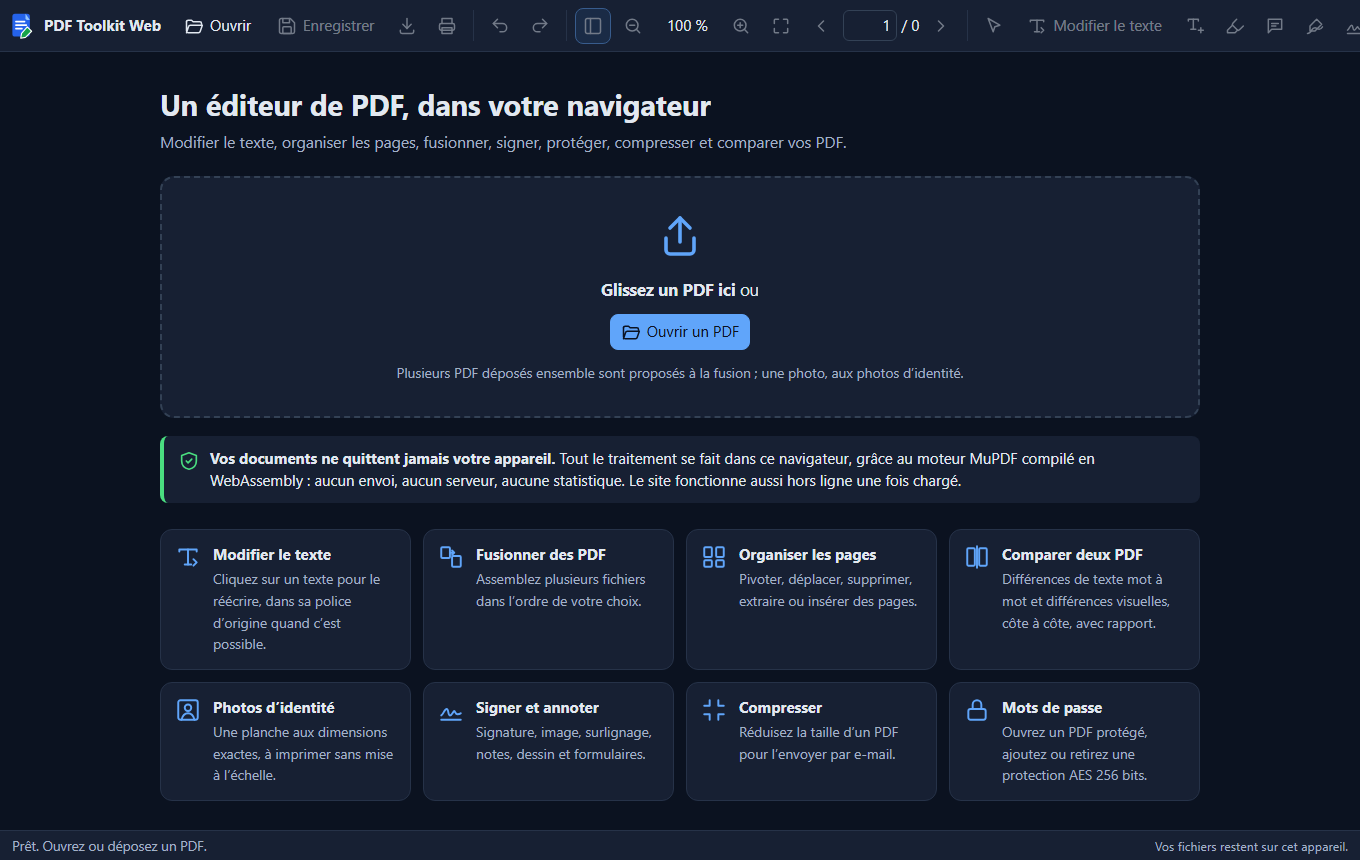
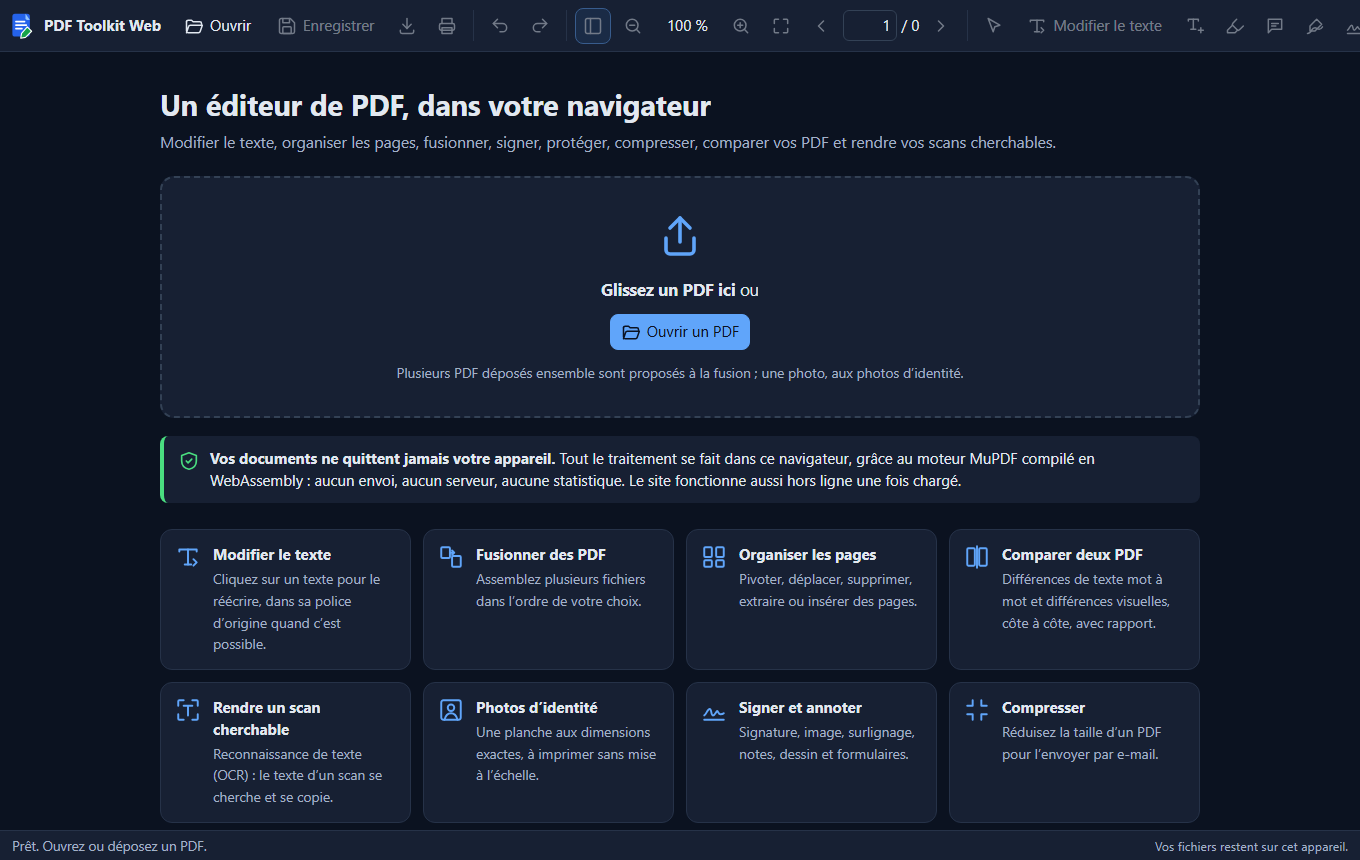
OCR : documentation, licences et captures
README : section « Rendre un scan cherchable (OCR) » (fonctionnement,
options, première utilisation, limites mesurées), raccourci Ctrl+Maj+O,
différences avec la version Windows (calque compatible dans les deux
sens, vérifié avec le code de PDF Toolkit 2), tailles téléchargées,
essais (tests/ocr.test.ts, scripts/essai-ocr.mjs), construction des
fichiers de l'OCR et organisation du code.

LICENCES-TIERCES : Tesseract.js, tesseract.js-core, Tesseract,
Leptonica, données de langue (Apache 2.0) et modules du worker.

Accueil : « Rendre un scan cherchable », sous-titre complété.
Captures de l'OCR sur ordinateur et sur téléphone.

diff --git a/src/ui/outils.ts b/src/ui/outils.ts
@@ -42,7 +42,7 @@ export function accueil(app: Application): HTMLElement {
     fonction("fusion", "Fusionner des PDF", "Assemblez plusieurs fichiers dans l’ordre de votre choix.", () => fusion(app)),
     fonction("pages", "Organiser les pages", "Pivoter, déplacer, supprimer, extraire ou insérer des pages.", () => app.ouvrirDialogue()),
     fonction("comparer", "Comparer deux PDF", "Différences de texte mot à mot et différences visuelles, côte à côte, avec rapport.", () => comparer(app)),
-    fonction("ocr", "Rendre un scan cherchable", "Reconnaissance de texte (OCR) : le texte d’un PDF scanné se cherche, se sélectionne et se copie.", () => app.ouvrirDialogue()),
+    fonction("ocr", "Rendre un scan cherchable", "Reconnaissance de texte (OCR) : le texte d’un scan se cherche et se copie.", () => app.ouvrirDialogue()),
     fonction("photo", "Photos d’identité", "Une planche aux dimensions exactes, à imprimer sans mise à l’échelle.", () => photoIdentite(app)),
     fonction("signature", "Signer et annoter", "Signature, image, surlignage, notes, dessin et formulaires.", () => app.ouvrirDialogue()),
     fonction("compresser", "Compresser", "Réduisez la taille d’un PDF pour l’envoyer par e-mail.", () => app.ouvrirDialogue()),
@@ -51,7 +51,7 @@ export function accueil(app: Application): HTMLElement {
   return el("div", { class: "accueil" },
     el("div", { class: "contenu" },
       el("h1", { text: "Un éditeur de PDF, dans votre navigateur" }),
-      el("p", { class: "sous-titre", text: "Modifier le texte, organiser les pages, fusionner, signer, protéger, compresser et comparer vos PDF." }),
+      el("p", { class: "sous-titre", text: "Modifier le texte, organiser les pages, fusionner, signer, protéger, compresser, comparer vos PDF et rendre vos scans cherchables." }),
       depot,
       el("div", { class: "confidentialite" }, el("span", { html: icone("bouclier") }),
         el("div", {}, el("strong", { text: "Vos documents ne quittent jamais votre appareil. " }),

diff --git a/README.md b/README.md
@@ -2,7 +2,8 @@
 
 Un éditeur de PDF simple et en français qui fonctionne **entièrement dans votre navigateur** : modifier le texte,
 organiser et assembler les pages, remplir les formulaires, signer, protéger par mot de passe, compresser, créer des
-photos d'identité et comparer deux versions d'un document.
+photos d'identité, comparer deux versions d'un document et rendre un document scanné cherchable (reconnaissance de
+texte).
 
 **Ouvrir le site : <https://yannickbuchet-ctrl.github.io/pdf-toolkit-web/>**
 
@@ -18,8 +19,9 @@ Windows, avec le même moteur : MuPDF.
 - **Aucune statistique, aucun traceur, aucune publicité.** Le site ne charge rien depuis un autre site (pas même une
   police de caractères), et sa politique de sécurité interdit d'envoyer des données ailleurs.
 - **Hors ligne** : une fois le site ouvert une première fois, il continue de fonctionner sans connexion. Seuls les
-  fichiers du site lui-même sont gardés par le navigateur, jamais vos documents. Le lecteur des photos HEIC fait
-  exception : il n'est téléchargé (2 Mo) qu'à la première photo HEIC, puis gardé à son tour.
+  fichiers du site lui-même sont gardés par le navigateur, jamais vos documents. Deux exceptions : le lecteur des
+  photos HEIC n'est téléchargé (2 Mo) qu'à la première photo HEIC, et la reconnaissance de texte (environ 2 Mo, puis
+  3 Mo de plus pour l'anglais, gardés d'office) qu'à sa première utilisation ; ils sont ensuite gardés à leur tour.
 - Fermer l'onglet efface tout : enregistrez votre document avant.
 
 ## Fonctions
@@ -60,6 +62,47 @@ Windows, avec le même moteur : MuPDF.
   respectée. Une photo est mise dans le PDF en JPEG, une image transparente en PNG, et un JPEG droit tel quel. Une
   photo de plus de 16 millions de pixels est réduite à cette taille, qui suffit pour imprimer une page A4 entière en
   haute qualité, et évite de saturer la mémoire d'un téléphone.
+
+### Rendre un scan cherchable (OCR)
+
+Outils → **Reconnaissance de texte (OCR)** (Ctrl+Maj+O). Le texte des pages scannées est lu sur l'image, puis posé
+dessus en **calque invisible**, mot par mot, à la place de chaque mot : la page garde son aspect, mais son texte se
+**cherche** (Ctrl+F, accents compris), se **sélectionne** et se **copie** dans n'importe quel lecteur de PDF, et le
+calque est gardé à l'enregistrement. Rien n'est envoyé : la lecture se fait dans le navigateur, avec le moteur
+[Tesseract](https://github.com/tesseract-ocr/tesseract) compilé en WebAssembly
+([Tesseract.js](https://github.com/naptha/tesseract.js)).
+
+![Recherche dans le texte reconnu d'une page scannée à l'envers, puis redressée](captures/ocr-recherche.png)
+
+- **Pages** : toutes, ou une liste (« 1-3, 7 ») ; **langue** : français (par défaut), anglais, ou les deux.
+- **Ignorer les pages qui contiennent déjà du texte** (coché) : les pages déjà lisibles, ou déjà passées à l'OCR,
+  sont laissées telles quelles. Décochée, une page déjà passée à l'OCR est relue : son ancien texte reconnu est
+  remplacé, jamais ajouté en double.
+- **Redresser les pages scannées à l'envers ou d'un quart de tour** (coché) : une page qui se lit mal est essayée
+  dans les quatre sens, puis pivotée pour s'afficher à l'endroit.
+- La progression s'affiche page par page. **Annuler** arrête la lecture aussitôt : la page en cours n'est pas
+  modifiée, les pages déjà lues gardent leur texte, et relancer l'OCR reprend où elle s'était arrêtée. **Ctrl+Z**
+  annule toute l'opération d'un coup.
+- À la fin, **Copier le texte** ou **Enregistrer en .txt** le texte reconnu, page par page.
+- En mode « Modifier le texte », le texte reconnu, encadré en pointillés gris, **ne se modifie pas** : il est
+  invisible, et un texte réécrit s'afficherait par-dessus l'image. « Remplacer » le laisse aussi tel quel. Pour le
+  corriger, refaites l'OCR de la page.
+- **Première utilisation** : le lecteur (1,5 Mo compressé) et les données du français (0,7 Mo) sont téléchargés depuis
+  ce site, puis gardés avec les données de l'anglais (3 Mo) : l'OCR marche ensuite hors connexion, dans les deux
+  langues.
+
+Limites :
+
+- texte imprimé seulement, en français ou en anglais : l'écriture manuscrite n'est pas lue, et un scan flou, très
+  incliné ou de basse résolution (moins de 200 ppp) donne plus d'erreurs. Sur des scans de synthèse à 300 ppp (Times
+  de 9 à 16 points, bruités, inclinés jusqu'à 1°), moins de 0,5 % des caractères sont faux, accents compris ; un vrai
+  scan en donne davantage ;
+- une page A4 se lit en une à deux secondes sur un ordinateur récent ; la lecture n'a pas été mesurée sur un vrai
+  téléphone, où elle est plus lente ;
+- le texte vertical (sur une page tournée qu'on choisit de ne pas redresser) n'est pas reconnu ;
+- le calque d'OCR posé par un autre logiciel est gardé : relire une telle page, case « Ignorer… » décochée, ajoute le
+  texte de PDF Toolkit à côté du sien ;
+- les pages très grandes (affiches, plans) sont lues à une résolution réduite, pour ménager la mémoire.
 
 ### Organiser et assembler
 
@@ -131,6 +174,9 @@ rétablir, Outils) et une barre en bas de l'écran, sous le pouce, regroupe le r
 | Chercher | rechercher et remplacer |
 | Plus | zoom, ajuster à la largeur, enregistrer sous, imprimer |
 
+La reconnaissance de texte, la fusion, la comparaison et les autres outils sont dans le menu Outils (☰), en haut à
+droite. La fenêtre de l'OCR tient dans l'écran, et sa progression et son bilan restent visibles sous les options.
+
 La page est ajustée à la largeur de l'écran dès l'ouverture ; zoomez à deux doigts. Dans la comparaison, l'affichage
 « Superposées » est choisi d'office et les options se replient après le calcul (bouton « Options et fichiers » pour
 les rouvrir). L'interface suit le mode clair ou sombre de l'appareil.
@@ -144,6 +190,7 @@ les rouvrir). L'interface suit le mode clair ou sombre de l'appareil.
 | Ctrl+F, Ctrl+H | rechercher, rechercher et remplacer |
 | F3, Maj+F3 | occurrence ou différence suivante, précédente |
 | Ctrl+G | aller à une page |
+| Ctrl+Maj+O | reconnaissance de texte (OCR) |
 | Ctrl+plus, Ctrl+moins, Ctrl+0 | zoom avant, arrière, 100 % |
 | T | mode « Modifier le texte » |
 | Échap | revenir à la lecture, annuler une saisie |
@@ -177,6 +224,13 @@ Un navigateur protège votre ordinateur : un site ne peut pas tout faire. Voici 
   d'un très grand bloc n'est pas comparé mot à mot (cela prendrait des minutes) : il est signalé comme supprimé et
   ajouté, page par page. Un même texte simplement coupé autrement en lignes, lui, est toujours comparé mot à mot.
 - **Comparaison en cours** : elle ne peut pas être interrompue.
+- **Reconnaissance de texte (OCR)** : même moteur (Tesseract, ici par Tesseract.js), mêmes données de langue, mêmes
+  réglages et même calque que sur Windows. Un PDF passé à l'OCR sur l'un est reconnu par l'autre, dans les deux sens
+  (vérifié) : son texte se cherche, ne se modifie pas, et la relecture remplace son calque au lieu de le doubler.
+  Différences : la fenêtre ne gèle pas pendant la lecture, et Annuler arrête aussitôt (et non à la fin de la page) ;
+  il n'y a pas de traitement par lots en ligne de commande (`--ocr`). Les fichiers de l'OCR ne sont pas téléchargés
+  au premier chargement du site : sans connexion, l'OCR ne marche qu'après une première utilisation en ligne (un
+  message le dit).
 - **Comparaison superposée** : elle s'affiche une fois la comparaison faite (sous Windows, dès l'ouverture des deux
   fichiers). Une page présente dans une seule version y est montrée seule, au lieu d'être omise.
 - **Rapport de comparaison** : il est écrit en Helvetica, la police standard des PDF, au lieu d'Arial : les flèches y
@@ -189,7 +243,8 @@ Le site vise les versions récentes de **Chrome, Edge, Firefox et Safari**, sur 
 il a besoin de WebAssembly, des Web Workers et des modules JavaScript dans les workers, présents dans tous ces
 navigateurs depuis 2023. Il a été essayé avec Chromium ; Firefox et Safari n'ont pas encore été essayés. Le premier
 chargement télécharge le moteur MuPDF : environ 5 Mo si le serveur le compresse (c'est le cas de GitHub Pages),
-10 Mo sinon.
+10 Mo sinon. La reconnaissance de texte ajoute, à sa première utilisation, 2 Mo (4 Mo sans compression), puis 3 Mo
+pour les données de l'anglais.
 
 ## Licence
 
@@ -207,6 +262,8 @@ Licences des composants tiers : [LICENCES-TIERCES.md](LICENCES-TIERCES.md).
 - [MuPDF et MuPDF.js](https://mupdf.com/) (Artifex Software, AGPL) pour le traitement des PDF.
 - [libheif](https://github.com/strukturag/libheif) et libde265 (struktur AG, LGPL), par
   [libheif-js](https://github.com/catdad-experiments/libheif-js), pour les photos HEIC.
+- Reconnaissance de texte : [Tesseract](https://github.com/tesseract-ocr/tesseract), par
+  [Tesseract.js](https://github.com/naptha/tesseract.js), et ses données de langue (Apache 2.0).
 
 ---
 
@@ -245,7 +302,15 @@ npm run build                         # vérification TypeScript, puis construct
 npx playwright install chromium       # une seule fois : navigateur sans fenêtre
 node scripts/parcours-navigateur.mjs  # parcours dans le site construit, captures dans captures/
 node scripts/essai-images.mjs         # formats de photo dans le site construit (dist/essai-images/)
+node scripts/essai-ocr.mjs            # reconnaissance de texte dans le site construit (captures/ocr-*.png)
 ```
+
+`scripts/essai-ocr.mjs` passe à l'OCR, dans Chromium, un PDF de trois pages fabriqué pour l'essai (un scan accentué,
+une page de vrai texte, un scan à l'envers), puis vérifie : bilan, page déjà textuelle laissée telle quelle, page
+redressée, recherche sans accents, texte reconnu non modifiable ni remplaçable, Ctrl+Z et Ctrl+Y, OCR refaite sans
+doublon, arrêt en cours de lecture, Ctrl+Maj+O, texte copié et enregistré en .txt, PDF enregistré relu. Puis sur
+téléphone, et hors connexion après une première utilisation (en français, puis en anglais). Il vérifie aussi que les
+fichiers de l'OCR ne sont téléchargés qu'à sa première utilisation, et qu'aucune requête ne quitte le site.
 
 `scripts/essai-images.mjs` insère dans Chromium une photo HEIC d'iPhone (sur ordinateur et sur téléphone), un TIFF,
 une photo JPEG de 24 Mpx tournée par son EXIF, un PNG transparent et une photo HEIC déposée sans type de fichier,
@@ -258,7 +323,10 @@ Les tests créent leurs propres PDF (aucun document personnel n'est utilisé) et
 modification du texte (police standard, police intégrée complète, police réduite, TrueType, accents, page pivotée),
 pages, fusion, mots de passe, compression, formulaires, annotations, recherche, dimensions exactes des photos
 d'identité et lecture sûre de leurs réglages, comparaison et rapport, formats d'image (reconnaissance du format,
-photo HEIC tournée lue par libheif, TIFF et JPEG en CMJN convertis par MuPDF). La seule image d'essai enregistrée,
+photo HEIC tournée lue par libheif, TIFF et JPEG en CMJN convertis par MuPDF), reconnaissance de texte avec
+Tesseract.js dans Node, sur des scans de synthèse (`tests/scan.ts`) : accents, bruit et inclinaison, page pivotée par
+le fichier, page à l'envers redressée, page déjà textuelle ignorée, OCR refaite sans doublon, arrêt puis reprise,
+page blanche, page inchangée à l'affichage. La seule image d'essai enregistrée,
 `tests/images/quadrants-quart-de-tour.heic`, est un damier de quatre couleurs fabriqué avec pillow-heif.
 
 Si le dossier `Exemples Gerber` existe à côté du projet (deux révisions d'une carte de circuit imprimé, avec la liste
@@ -283,6 +351,12 @@ Le service worker (`public/sw.js`) n'est actif que sur HTTPS ou `localhost`. À 
 (hors ligne dès la première visite), et donne à son cache un nom tiré de cette liste : chaque nouvelle version
 remplace l'ancienne, sans rien changer à la main. Le lecteur HEIC est laissé hors de la liste.
 
+Les fichiers de la reconnaissance de texte sont copiés par `vite.config.ts` depuis `node_modules` dans un dossier
+`dist/ocr-<empreinte>/` (le nom change avec leur contenu) : le Web Worker de Tesseract.js, son moteur WebAssembly en
+trois versions (le navigateur n'en télécharge qu'une, selon son processeur) et les données `fra` et `eng`
+(`@tesseract.js-data`, modèles « best_int »). `hors-ligne.json` les liste à part (`ocr`) : le service worker ne les
+garde qu'à la première reconnaissance de texte. En développement, `npm run dev` les sert depuis `node_modules`.
+
 ### Déployer sur GitHub Pages
 
 Le fichier `.github/workflows/pages.yml` teste, construit et publie le site sur GitHub Pages. Il ne se lance que
@@ -299,10 +373,13 @@ manuellement (onglet « Actions » → « Publier sur GitHub Pages » → « Run
 | `src/moteur/` | logique PDF avec MuPDF : texte (`texte.ts`, `polices.ts`, `segments.ts`, `tableUnicode.ts`), document et pages, compression, photos d'identité, comparaison et rapport, images que le navigateur ne lit pas (`images.ts`), reconnaissance du format d'une image (`formatImage.ts`) |
 | `src/worker.ts` | le moteur dans un Web Worker : documents ouverts, annuler et rétablir |
 | `src/heic.worker.ts` | le lecteur de photos HEIC (libheif en WebAssembly), dans un Web Worker créé à la demande |
+| `src/moteur/ocr.ts`, `src/moteur/ocrLecture.ts` | reconnaissance de texte : image des pages et calque invisible (MuPDF) ; lignes, sens de lecture, déroulé et bilan (sans MuPDF) |
+| `src/ui/ocr.ts` | la fenêtre de l'OCR et Tesseract.js, chargés à la première utilisation |
 | `src/ui/` | l'interface : application, outils et fenêtres, lecture des images (`images.ts`), photos d'identité, comparaison |
-| `tests/` | tests Vitest, fabrique de PDF de test, photo HEIC d'essai (`tests/images/`) |
+| `tests/` | tests Vitest, fabrique de PDF de test, scans de synthèse (`scan.ts`), photo HEIC d'essai (`tests/images/`) |
 | `scripts/parcours-navigateur.mjs` | parcours dans Chromium sans fenêtre |
 | `scripts/essai-images.mjs` | formats de photo dans Chromium sans fenêtre |
+| `scripts/essai-ocr.mjs` | reconnaissance de texte dans Chromium sans fenêtre |
 | `public/` | service worker, manifeste et icône |
 
 À noter pour MuPDF.js 1.28 (vérifié par les tests) : enregistrer le document de travail avec des options

diff --git a/LICENCES-TIERCES.md b/LICENCES-TIERCES.md
@@ -44,6 +44,26 @@ Les textes de la licence LGPL sont dans le paquet npm `libheif-js` (fichiers `LI
 Le code source de ces bibliothèques est publié aux adresses ci-dessus. Celui de PDF Toolkit Web (AGPL) l'est aussi :
 on peut donc reconstruire le site avec une autre version de ces bibliothèques, comme le demande la LGPL.
 
+### Reconnaissance de texte (OCR)
+
+Client Tesseract.js (fichier `src-….js`, quelques Ko), puis, téléchargés seulement à la première reconnaissance de
+texte, les fichiers du dossier `ocr-…/` : `worker.min.js`, une des trois versions de `tesseract-core-…-lstm.wasm.js`
+(selon le processeur) et les données `fra.traineddata.gz` et `eng.traineddata.gz`.
+
+| Composant | Version | Rôle | Licence |
+|---|---|---|---|
+| [Tesseract.js](https://github.com/naptha/tesseract.js) (Jerome Wu, Kevin Kwok, Guillermo Webster, Balearica et contributeurs) | 7.0.0 | client et Web Worker de la reconnaissance | Apache 2.0 |
+| [tesseract.js-core](https://github.com/naptha/tesseract.js-core) | 7.0.0 | Tesseract compilé en WebAssembly | Apache 2.0 |
+| [Tesseract](https://github.com/tesseract-ocr/tesseract) (Google, puis le projet tesseract-ocr), dans une version modifiée par tesseract.js-core | inclus dans tesseract.js-core | moteur de reconnaissance (réseau LSTM) | Apache 2.0 |
+| [Leptonica](http://www.leptonica.org/) (Dan Bloomberg), et les bibliothèques d'images qu'il utilise (zlib, libpng, libjpeg…) | inclus dans tesseract.js-core | lecture et traitement des images | licence Leptonica (de type BSD 2 clauses) ; zlib, libpng, IJG |
+| Données de langue `fra` et `eng` « best_int » : modèles de [tessdata_best](https://github.com/tesseract-ocr/tessdata_best) (Google) convertis en entiers par le projet Tesseract.js, paquets npm `@tesseract.js-data/fra` et `@tesseract.js-data/eng` (dossier `4.0.0_best_int`) | 1.0.0 | ce que Tesseract sait du français et de l'anglais | Apache 2.0 (données) ; MIT (paquets npm) |
+| Inclus dans `worker.min.js` : regenerator-runtime (Facebook), zlib.js (imaya), buffer et ieee754 (Feross Aboukhadijeh), is-url, bmp-js, wasm-feature-detect | — | fonctionnement du Web Worker, décompression des données | MIT ; BSD 3 clauses (ieee754) ; Apache 2.0 (wasm-feature-detect) |
+
+Les textes de la licence Apache 2.0 sont dans les paquets npm `tesseract.js` (`LICENSE.md`) et `tesseract.js-core`
+(`LICENSE`). La liste exacte des bibliothèques compilées dans le moteur WebAssembly est dans le dépôt de
+tesseract.js-core (dossier `third_party`), qui fait foi. La police sans dessin du calque de texte invisible
+(`GlyphLessFont`, 572 octets, dans `src/moteur/ocr.ts`) vient de Tesseract (Apache 2.0), telle que MuPDF l'écrit.
+
 ## Utilisés seulement pour construire le site (non publiés)
 
 | Outil | Rôle | Licence |
